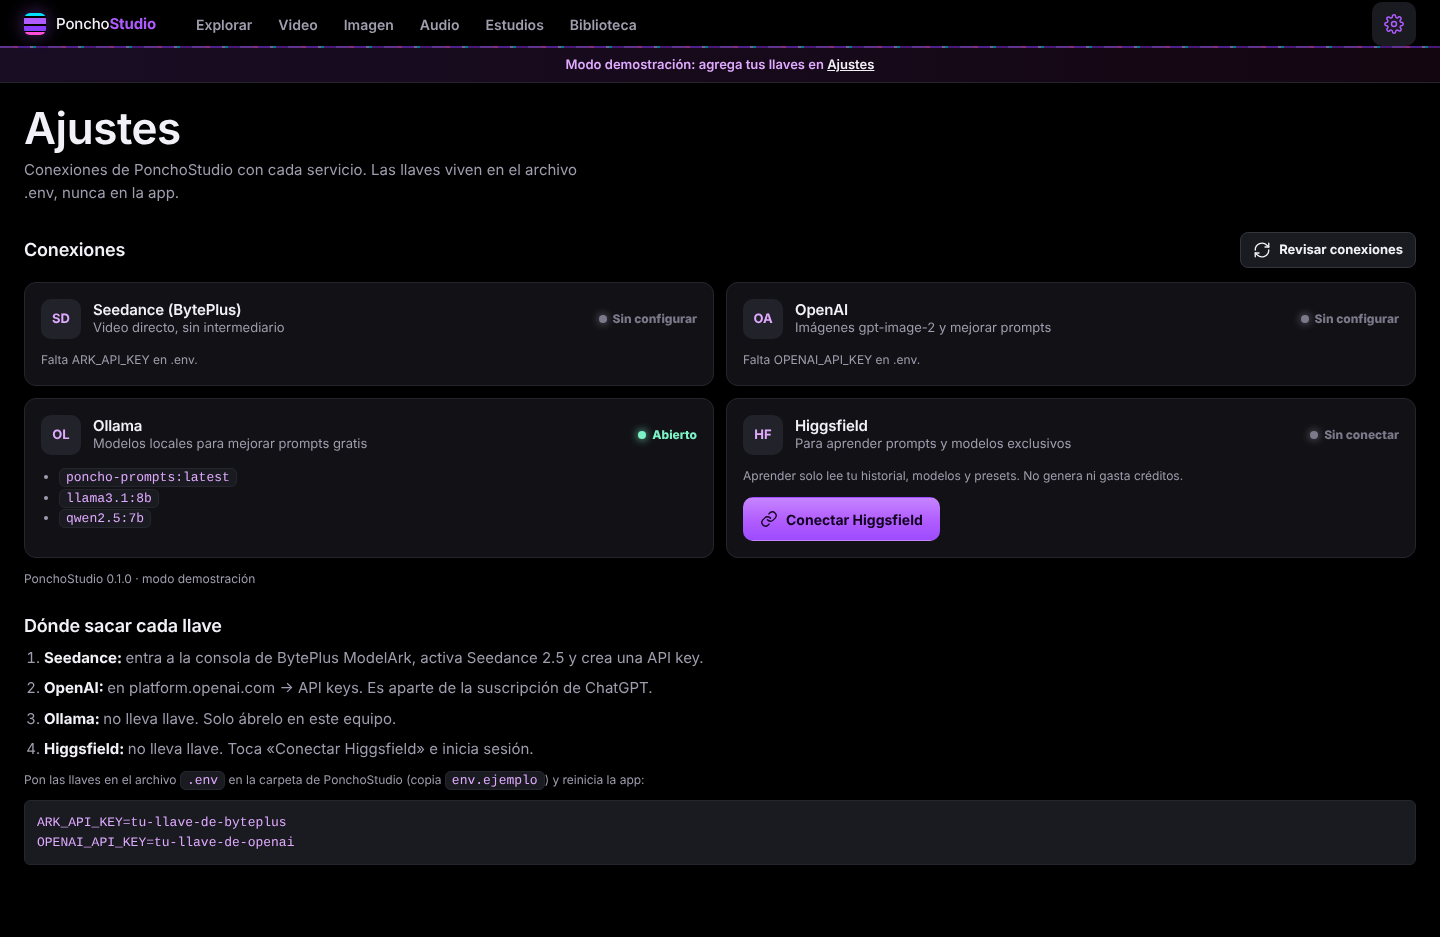
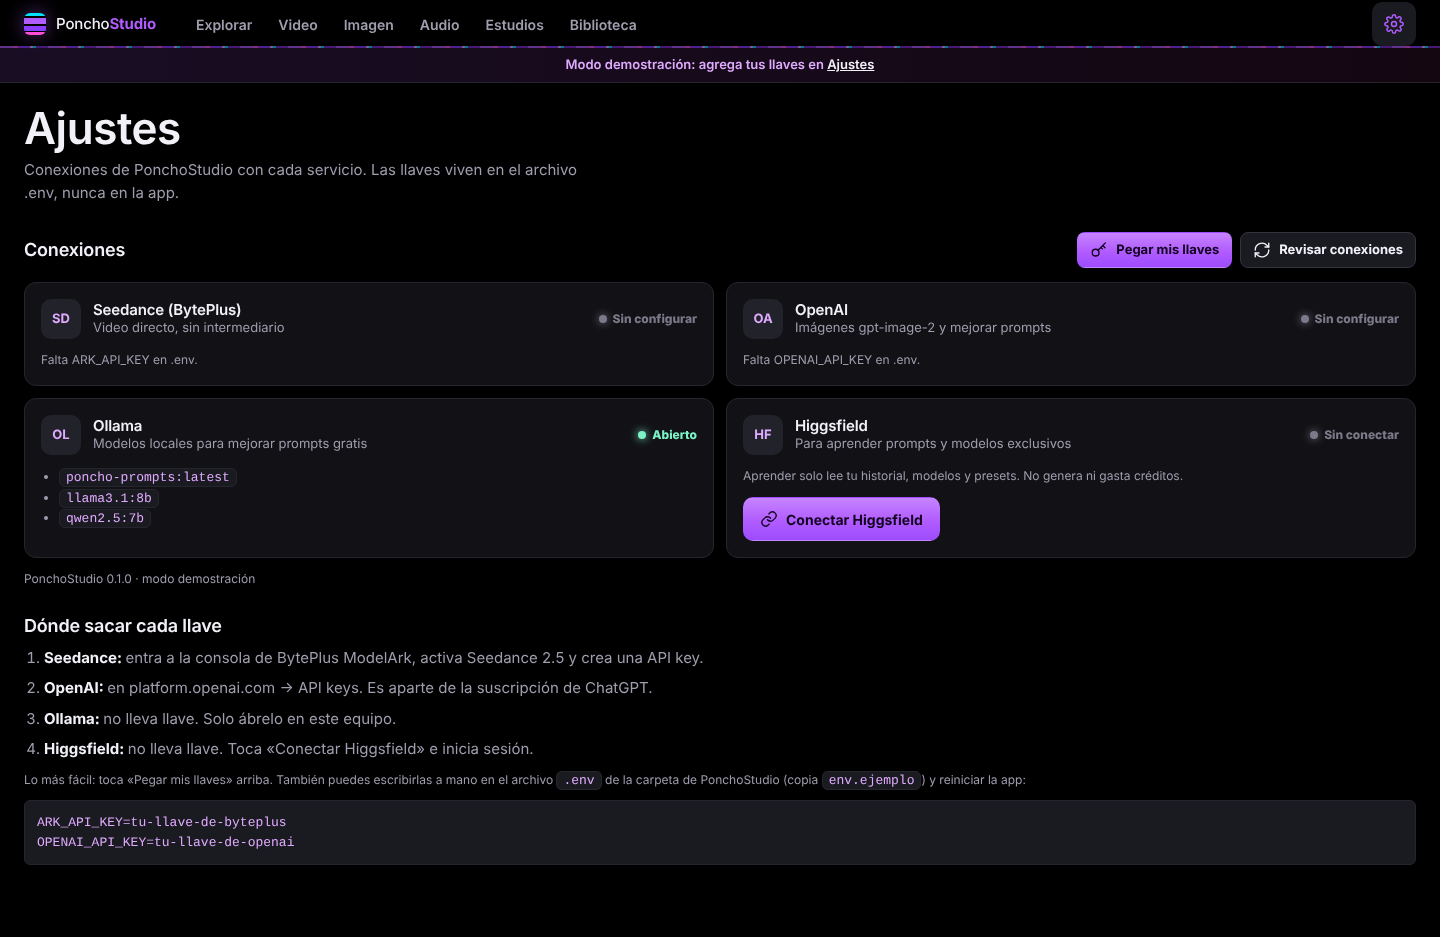
MEMORIA: todo lo de la sesión del 19 nov para seguir en ventana nueva
Claude-Session: https://claude.ai/code/session_01DknfU1T4PHr4HztToWDa74

Changed region(s): [[0.0312, 0.8047, 0.6875, 0.8666], [0.75, 0.2476, 0.875, 0.3095]]

diff --git a/docs/MEMORIA.md b/docs/MEMORIA.md
@@ -102,13 +102,65 @@ Si la conversación se compacta o se empieza una nueva sesión, leer esto primer
 - Dato útil: Seedance 2.5 en Higgsfield sí da 4K y tiene modo `draft` 480p que se finaliza después (7 días).
 
 ## 4d. GitHub
-- Cuenta: **ponchoapp**. Repo creado por Poncho: `ponchoapp/PonchoStudio` (vacío, privado).
-- La sesión puede leerlo, pero el push se rechaza: falta instalar la app de Claude en GitHub con acceso al repo
-  (github.com/apps/claude/installations/select_target).
+- Cuenta: **ponchoapp**. Repo: **github.com/ponchoapp/PonchoStudio** (privado), rama `main`.
+- App de Claude instalada en GitHub con "All repositories": las sesiones de Claude ya pueden hacer push.
+- Cada avance va con commit + push. Al cerrar versión: subir `VERSION`, entrada en `CHANGELOG.md` y `git tag vX.Y.Z`.
+- La copia del PC (`G:\DATOS\Documentos\PonchoStudio`) tiene su `.git`. El PC (shell de Claude) NO llega a GitHub
+  (proxy 403): para sincronizar se manda un `git bundle` y se hace `git pull` del bundle, o Poncho hace `git pull` en Windows.
+- `G:\DATOS\Documentos\_to_delete\PonchoStudio.tar.gz`: copia vieja, se puede borrar.
 
-## 5. Progreso
-- [x] Revisión de apps existentes y del código de Higgsfield.
-- [ ] App construida.
-- [ ] Documentación (README, CHANGELOG, ERRORES).
-- [ ] Guardada en G:\DATOS\Documentos\PonchoStudio y en git.
-- [ ] Verificada.
+## 4e. BytePlus (Seedance) — lo que hizo Poncho el 19 nov
+- Cuenta creada en console.byteplus.com, región **Asia Pacific (Johor)** = `ap-southeast-1` (coincide con la URL de la app).
+- NO comprar el "Coding Plan" (US$10/50 mes): es para modelos de texto, no incluye Seedance. Seedance es pago por uso.
+- Va a activar en **Console → Model activation**: Dreamina-Seedance-2.5, Dreamina-Seedance-2.5-flash y Dola-Seedream-5.5.
+- Model ID de Flash (verificado en consola): `dreamina-seedance-2-5-flash-261115`, US$7/M tokens sin video (4.3 con video).
+  Ya está en `app/catalogo.py` como `seedance-2.5-flash` (480p/720p).
+- **Falta**: Model ID de **Dola-Seedream-5.5** (imagen, US$0.02–0.035 por imagen, fondo transparente) para agregarlo
+  como motor de imagen con la misma ARK_API_KEY (endpoint de imágenes de ModelArk).
+- Opción "Free Credits Only Mode": si la prende, solo gasta crédito gratis y se pausa. Recomendado para la primera prueba.
+- Modelos de texto baratos en la misma cuenta (GLM-5.3-Flash, DeepSeek-V4.1-Flash): idea para respaldo de "Mejorar prompt".
+- Poncho TIENE API de OpenAI (ChatGPT API): imágenes con gpt-image-2 listas en cuanto pegue la llave.
+
+## 4f. Llaves
+- NUNCA pedir ni recibir llaves por el chat. La app tiene ventana "Pegar mis llaves" en Ajustes → `POST /api/llaves`
+  escribe el `.env` del PC (conserva lo demás), recarga sin reiniciar y solo muestra los 4 últimos caracteres.
+  Bloquea peticiones de otras páginas (origen ≠ localhost). Servidor solo en 127.0.0.1:8010.
+
+## 4g. Ollama
+- `C:\Users\andre\.ollama\config.json` → integración con Claude usando `glm-5.3-flash:cloud` (Ollama Pro, nube).
+- Los modelos locales NO están en `~/.ollama/models` (OLLAMA_MODELS apunta a otra carpeta, sin ubicar).
+  La app los lista en vivo con `/api/tags`; Poncho elige el suyo en Ajustes (OLLAMA_MODELO).
+- Pendiente: que Poncho diga qué modelos creó (o correr `ollama list` en Windows) para ponerlos por defecto.
+
+## 4h. Higgsfield completo
+- El conector personalizado (mcp.higgsfield.ai, puede generar) está conectado en claude.ai pero NO cargó en la sesión
+  del 19 nov (solo cargó el de solo lectura). En una sesión NUEVA debería aparecer. Antes de generar con él:
+  decir el costo en créditos y esperar confirmación de Poncho.
+
+## 5. Progreso (19 nov, 19:56)
+- [x] Revisión de apps existentes y del código de Higgsfield (PDFs → /home/claude/hf/*.txt en la sesión vieja).
+- [x] Backend completo (Starlette): Seedance 2.5/2.5 Flash/2.0/2.0 Fast directo, OpenAI imágenes, Ollama,
+      cliente MCP Higgsfield con OAuth+PKCE, cola de trabajos (máx 3 Seedance), modo demo, llaves desde la app.
+      **51 pruebas pasan** (`python -m pytest`).
+- [x] Biblioteca de prompts: 40 cámaras, 35 estilos, 44 plantillas (`data/presets/`), `docs/GUIA_PROMPTS.md`.
+- [x] Catálogo real de Higgsfield (26 modelos) cargado desde `data/presets/higgsfield_catalogo.json`.
+- [x] Documentación: README, CHANGELOG, CLAUDE.md, ERRORES.md, CONTRATO_API.md, esta memoria.
+- [x] En GitHub y en `G:\DATOS\Documentos\PonchoStudio`.
+- [~] **Interfaz** (app/static): la estaba terminando un agente cuando se cerró la sesión. Tiene todas las vistas
+      (Explorar, Video, Imagen, Audio, Estudios, Biblioteca, Ajustes) y capturas en `docs/capturas/`. Faltaba:
+      el modal "Pegar mis llaves" en Ajustes (contrato en CONTRATO_API.md → Llaves) y su prueba final.
+      Si al abrir la sesión nueva el modal no existe en `app/static/js/vistas/ajustes.js`, hacerlo.
+- [ ] Verificación final: arrancar con ABRIR.bat en Windows, revisar consola, probar demo y una generación real
+      en 480p 4 s con Seedance 2.5 Flash cuando Poncho tenga la llave.
+- [ ] Cerrar versión: `VERSION = "0.1.0"`, CHANGELOG, `git tag v0.1.0`, push.
+
+## 6. Ideas pedidas o propuestas (siguientes versiones)
+- Botón **"Comparar"**: un prompt a dos modelos a la vez (p. ej. Seedance 2.5 directo vs Kling por Higgsfield).
+- Seedream 5.5 como motor de imagen (más barato que OpenAI, fondo transparente).
+- Plantillas del estilo de Poncho sacadas de sus videos de Seedance en Higgsfield (`show_generations` da los enlaces).
+- Respaldo de "Mejorar prompt" con GLM/DeepSeek de BytePlus.
+
+## 7. Cómo seguir en una ventana nueva
+1. Abrir sesión nueva en Claude (desktop, con el PC seleccionado) y conectar la carpeta `G:\DATOS\Documentos`.
+2. Decir: *"Lee G:\DATOS\Documentos\PonchoStudio\docs\MEMORIA.md y docs\ERRORES.md y sigue con PonchoStudio."*
+3. O en Claude Code: `cd G:\DATOS\Documentos\PonchoStudio` → `git pull` → `claude` (lee CLAUDE.md solo).
